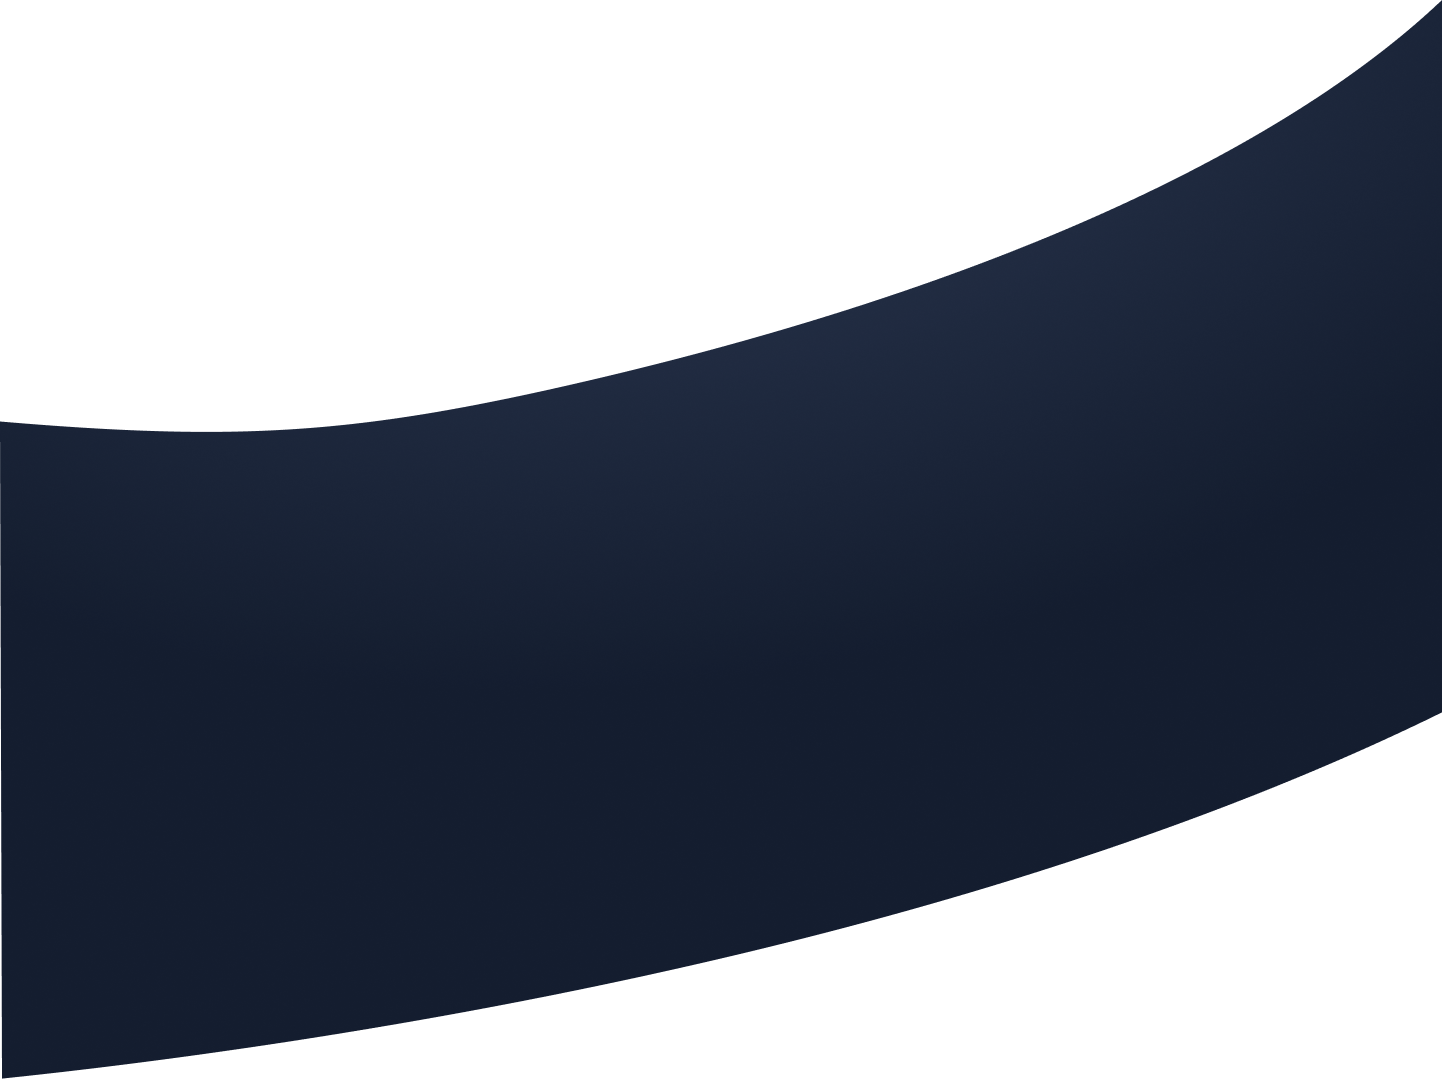
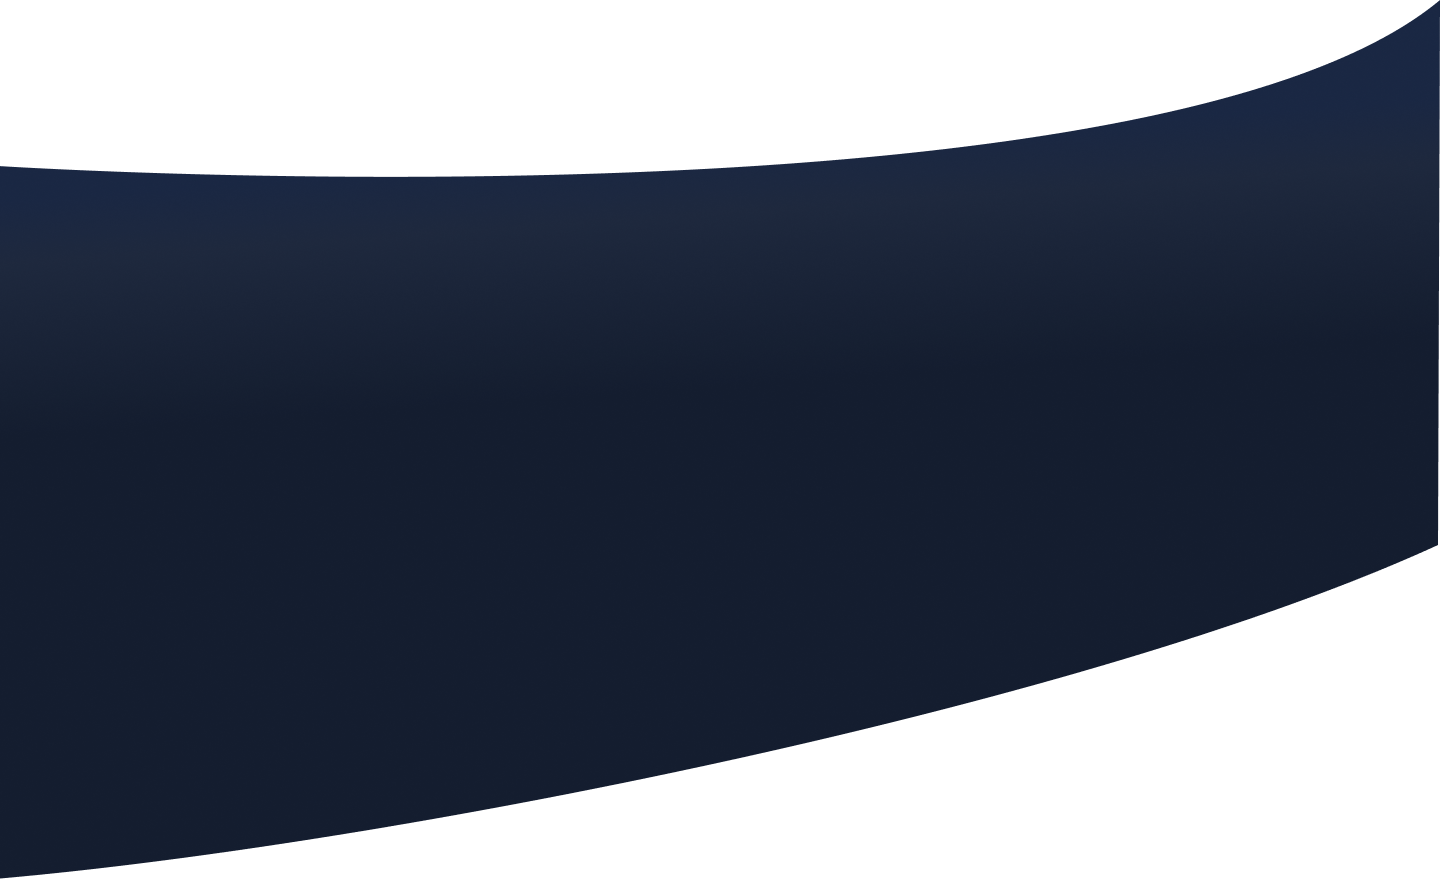
ss

diff --git a/src/app/main-page/contact/contact.component.html b/src/app/main-page/contact/contact.component.html
@@ -18,37 +18,39 @@
         <main>
             <form (ngSubmit)="onSubmit(contactForm)" #contactForm="ngForm">
                 <input #name="ngModel" type="text" minlength="4" id="name" name="name" [(ngModel)]="contactData.name"
-                    placeholder="Your name" (ngModelChange)="checkFields()" required>
-                @if (!name.valid && name.touched) {
-                <span>Please enter your full name</span>
+                    placeholder="Your name" [ngClass]="{'invalidInput': name.invalid && name.touched}" required>
+                @if (name.invalid && name.touched) {
+                <p>Please enter your full name</p>
+
                 }
-                <input #email="ngModel" type="email" minlength="4" id="email" name="email"
+                <input #email="ngModel" type="email" minlength="5" id="email" name="email"
                     pattern="[a-zA-Z0-9._%+-]+@[a-zA-Z0-9.-]+\.[a-zA-Z]{2,}" [(ngModel)]="contactData.email"
-                    (ngModelChange)="checkFields()" placeholder="Your email" required>
-                @if (!email.valid && email.touched) {
-                <span>Please enter your E-Mail</span>
+                    (ngModelChange)="checkFields()" [ngClass]="{'invalidInput': email.invalid && email.touched}"
+                    placeholder="Your email" required>
+                @if (email.invalid && email.touched) {
+                <p>Please enter a valid email address</p>
                 }
 
                 <textarea #message="ngModel" type="text" minlength="10" id="message" name="message"
                     [(ngModel)]="contactData.message" placeholder="Your message" (ngModelChange)="checkFields()"
-                    required></textarea>
-                @if (!message.valid && message.touched) {
-                <span>Please enter a message</span>
+                    required [ngClass]="{'invalidInput': message.invalid && message.touched}"></textarea>
+                @if (message.invalid && message.touched) {
+                <p>Please enter a message</p>
                 }
 
                 <div class="checkDiv">
                     <div>
-                    <div class="checkbox-container">
-                        <input #checkBox="ngModel" type="checkbox" id="myCheckbox" [(ngModel)]="contactData.checkbox"
-                            name="checkbox" required>
-                        <label for="myCheckbox"></label>
+                        <div class="checkbox-container">
+                            <input #checkBox="ngModel" type="checkbox" id="myCheckbox"
+                                [(ngModel)]="contactData.checkbox" name="checkbox" required>
+                            <label for="myCheckbox"></label>
+                        </div>
+                        <span>I´ve read the <a href="">privacy politicy</a>
+                            and agree to the processing of my data as outlined
+                        </span>
                     </div>
-                    <span>I´ve read the <a href="">privacy politicy</a>
-                        and agree to the processing of my data as outlined
-                    </span>
-                </div>
                     @if (!checkBox.valid) {
-                    <span>Please accept the privacy politicy</span>
+                    <p>Please accept the privacy politicy</p>
                     }
                 </div>
                 <button class="btnGrowing" type="submit" [disabled]="!allFieldsFilled">
@@ -56,7 +58,7 @@
                 </button>
             </form>
             <div class="goUpBtn">
-                <a href="#header">
+                <a href="#above-the-fold">
                     <svg width="39" height="39" viewBox="0 0 39 39" fill="none" xmlns="http://www.w3.org/2000/svg">
                         <rect x="1" y="1" width="37" height="37" rx="18.5" stroke="white" stroke-width="2" />
                         <path d="M18 15.828L13.343 20.485C12.9526 20.8755 12.3195 20.8755 11.929 20.485C11.5386 20.0945 11.5386 

diff --git a/src/app/main-page/above-the-fold/above-the-fold.component.scss b/src/app/main-page/above-the-fold/above-the-fold.component.scss
@@ -3,26 +3,33 @@
 section {
     display: flex;
     position: relative;
-    background-image: url(./../../../assets/img/forms/photo-shadows.png);
-    background-repeat: no-repeat;
-    background-position-x: -100px;
-    background-position-y: 70px;
+    scroll-margin-top: 150px;
+    gap: 20px;
+    // z-index: -5;
+}
+
+.photoShadow{
+    position: absolute;
+    top: 180px;
+    left: -100px;
+    z-index: -7;
 }
 
 aside {
     padding-left: 42px;
-    z-index: 5;
     max-width: 590px;
+    z-index: -6;
 }
 
 main {
     @include dFlex($fd: column, $gap: 44px);
-    padding-top: 50px;
-    z-index: 10;
+    z-index: 5;
 
     :nth-child(1) {
         @include dFlex();
     }
+
+    
 }
 
 .rotText {
@@ -30,11 +37,10 @@ main {
     transform: rotate(-180deg);
     font-size: 64px;
     font-weight: 400;
-    padding-left: 35px;
 }
 
 .headline {
-    @include dFlex($fd: column, $jc:null, $ai:flex-start);    
+    @include dFlex($fd: column, $jc: null, $ai: flex-start);
     padding-right: 100px;
 
     :nth-child(1) {
@@ -53,12 +59,17 @@ main {
     @include dFlex($ai: flex-start);
 }
 
+button {
+    z-index: 50;
+}
+
 .shape {
     width: 100%;
     position: absolute;
-    top: 380px;
+    top: 350px;
+    // top: 610px; für andere form!!
     // left: 159.5px;
-    z-index: -1;
+    z-index: -5;
 }
 
 .line {
@@ -70,7 +81,6 @@ main {
 
 .socials {
     @include dFlex($jc: null);
-    z-index: 10;
     gap: 42px;
     padding-top: 50px;
 
@@ -81,6 +91,12 @@ main {
             cursor: pointer;
             transition: transform 200ms ease-in-out;
             transform: scale(1.3);
+        }
+    }
+
+    .email{
+        &:hover{
+            color: $lightblue;
         }
     }
 }
@@ -94,6 +110,7 @@ main {
     writing-mode: vertical-lr;
     line-height: 27.6px;
     animation: moveUpDown 2s infinite;
+    z-index: 3;
 
     img {
         width: 24px;
@@ -105,17 +122,19 @@ main {
     right: 0;
     top: 700px;
     height: 800px;
-    z-index: -1;
+    z-index: -4;
 }
 
 @keyframes moveUpDown {
     0% {
         transform: translateY(0);
     }
+
     50% {
-        transform: translateY(-15px); 
+        transform: translateY(-15px);
     }
+
     100% {
-        transform: translateY(0); 
+        transform: translateY(0);
     }
 }

diff --git a/src/app/main-page/contact/contact.component.scss b/src/app/main-page/contact/contact.component.scss
@@ -42,11 +42,15 @@ form {
             text-decoration: underline;
         }
     }
+
+    p {
+        color: red;
+    }
 }
 
 input,
 textarea {
-    font-size: 16px;
+    font: inherit;
     border: 1px solid $purple;
     border-radius: 10px;
     height: 50px;
@@ -57,7 +61,6 @@ textarea {
 
     &::placeholder {
         color: white;
-        font-size: 16px;
     }
 
     &:hover {
@@ -71,6 +74,14 @@ textarea {
         background-color: inherit;
         /* Beibehaltung des ursprünglichen Hintergrunds */
     }
+
+    &:focus::placeholder {
+        color: transparent;
+    }
+
+    &:valid {
+        border-color: $green;
+    }
 }
 
 textarea {
@@ -80,6 +91,10 @@ textarea {
     word-break: break-word;
     font-size: 17px;
     padding-top: 12px;
+}
+
+.invalidInput{
+    border: 1px solid red !important;
 }
 
 .checkDiv {

diff --git a/src/app/main-page/above-the-fold/above-the-fold.component.html b/src/app/main-page/above-the-fold/above-the-fold.component.html
@@ -1,4 +1,4 @@
-<section>
+<section id="above-the-fold">
     <aside>
         <img src="assets/img/hero-photo.png" alt="hero-photo">
     </aside>
@@ -29,14 +29,16 @@
     <a href="">
         <img src="assets/img/logos/linkedin.png" alt="linkedin logo">
     </a>
-    <a href="">STorney&#64;web.de</a>
+    <a class="email" href="">STorney&#64;web.de</a>
 </div>
 
-<img class="shape" src="assets/img/forms/top-shape.png" alt="top-shape">
+<img class="shape" src="assets/img/forms/top-shape_1.png" alt="top-shape">
 
 <div class="scrollDown">
     <span>Scroll down</span>
     <img src="assets/img/forms/arrow-down-line.png" alt="arrow-down">
 </div>
+
+<img class="photoShadow" src="assets/img/forms/photo-shadows.png" alt="">
 
 <img class="shadowPurple" src="assets/img/forms/purple shadow-about-me.png" alt="top-shape">

diff --git a/src/styles.scss b/src/styles.scss
@@ -3,6 +3,7 @@ $fonts: #fff;
 $background: #141D2F;
 $green: rgba(112, 230, 28, 1);
 $purple: rgba(151, 71, 255, 1);
+$lightblue: rgba(28, 218, 230, 1);
 
 @mixin dFlex($jc: center, $ai: center, $fd: row, $gap: 0) {
   display: flex;
@@ -27,7 +28,7 @@ body {
 }
 
 
-h2{
+h2 {
   font-size: 90px;
   font-weight: 700;
 }
@@ -52,11 +53,11 @@ a {
     cursor: pointer;
     background-color: $purple;
     transform: scaleY(1.2) scaleX(1.2);
-  }  
+  }
 
-  &:disabled{
+  &:disabled {
     background-color: grey;
     cursor: not-allowed;
     transform: scaleY(1.0) scaleX(1.0);
-}
+  }
 }

diff --git a/src/app/main-page/projects/projects.component.ts b/src/app/main-page/projects/projects.component.ts
@@ -27,6 +27,14 @@ export class ProjectsComponent {
       gitHub:"https://github.com/SebastianMT7/El-Pollo-Loco",
     },
 
+    // { name: "Simple CRM", 
+    //   img: "assets/img/elPolloLoco.png",
+    //   skills: "Angular | Firebase",
+    //   description: "Coming soon!",
+    //   liveTest:"https://sebastian-torney.developerakademie.net/El-Pollo-Loco/index.html",
+    //   gitHub:"https://github.com/SebastianMT7/El-Pollo-Loco",
+    // },
+
     
   ]
 }

diff --git a/src/app/header/header.component.scss b/src/app/header/header.component.scss
@@ -7,6 +7,9 @@ header {
     padding: 37px 100px;
     font-size: 23px;
     background-color: #141D2F; 
+    position: sticky;
+    top: 0;
+    z-index: 999;
 
     img {
         width: 150px;

diff --git a/src/app/main-page/my-skills/my-skills.component.scss b/src/app/main-page/my-skills/my-skills.component.scss
@@ -4,6 +4,7 @@ section {
     @include dFlex($ai: null, $jc: null, $gap:48px);
     padding-left: 100px;
     position: relative;
+    scroll-margin-top: 250px;
 }
 
 .skillList {

diff --git a/src/app/header/header.component.html b/src/app/header/header.component.html
@@ -1,4 +1,4 @@
-<header  id="header">
+<header>
     <div>
         <a href="">
             <img src="assets/img/logos/logo.png" alt="personal logo">

diff --git a/src/app/footer/footer.component.scss b/src/app/footer/footer.component.scss
@@ -24,7 +24,7 @@ footer {
 
 .imprint:hover{
     cursor: pointer;
-    color: #1CDAE6;
+    color: $lightblue;
 }
 
 .socials {

diff --git a/src/app/main-page/about-me/about-me.component.scss b/src/app/main-page/about-me/about-me.component.scss
@@ -2,6 +2,7 @@
 
 section {
     @include dFlex($gap: 149px);
+    z-index: 5;
 }
 
 main {
